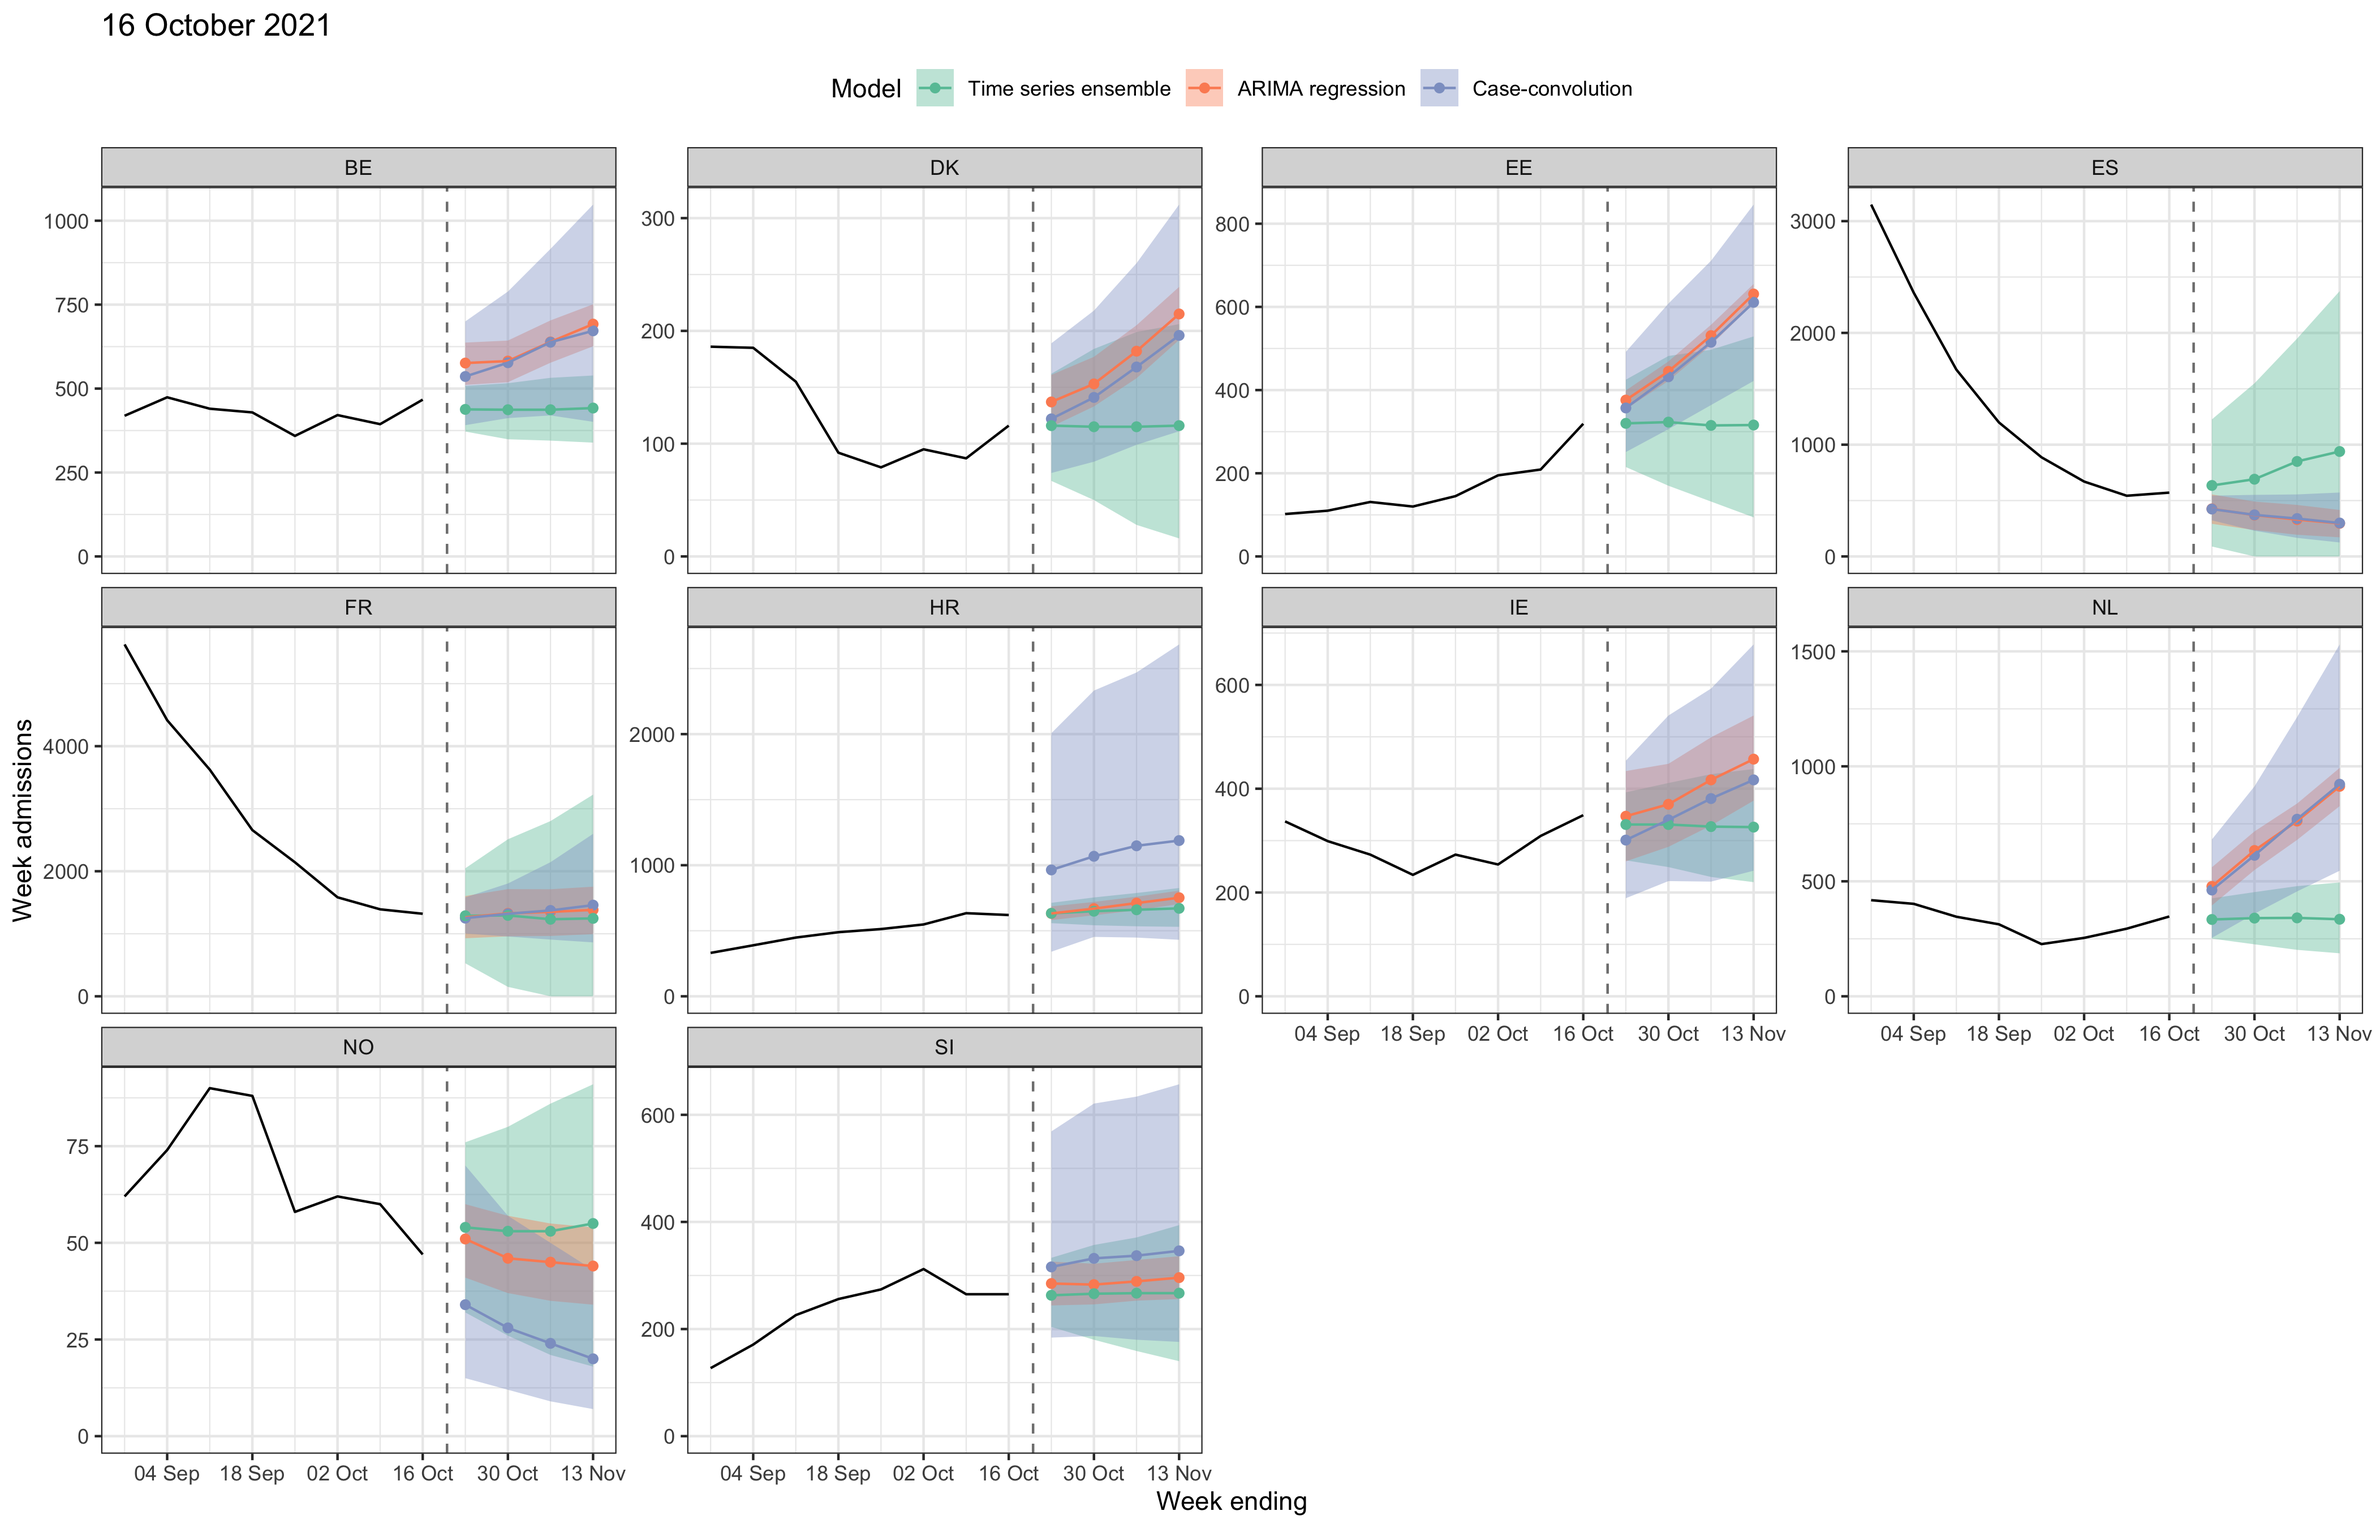
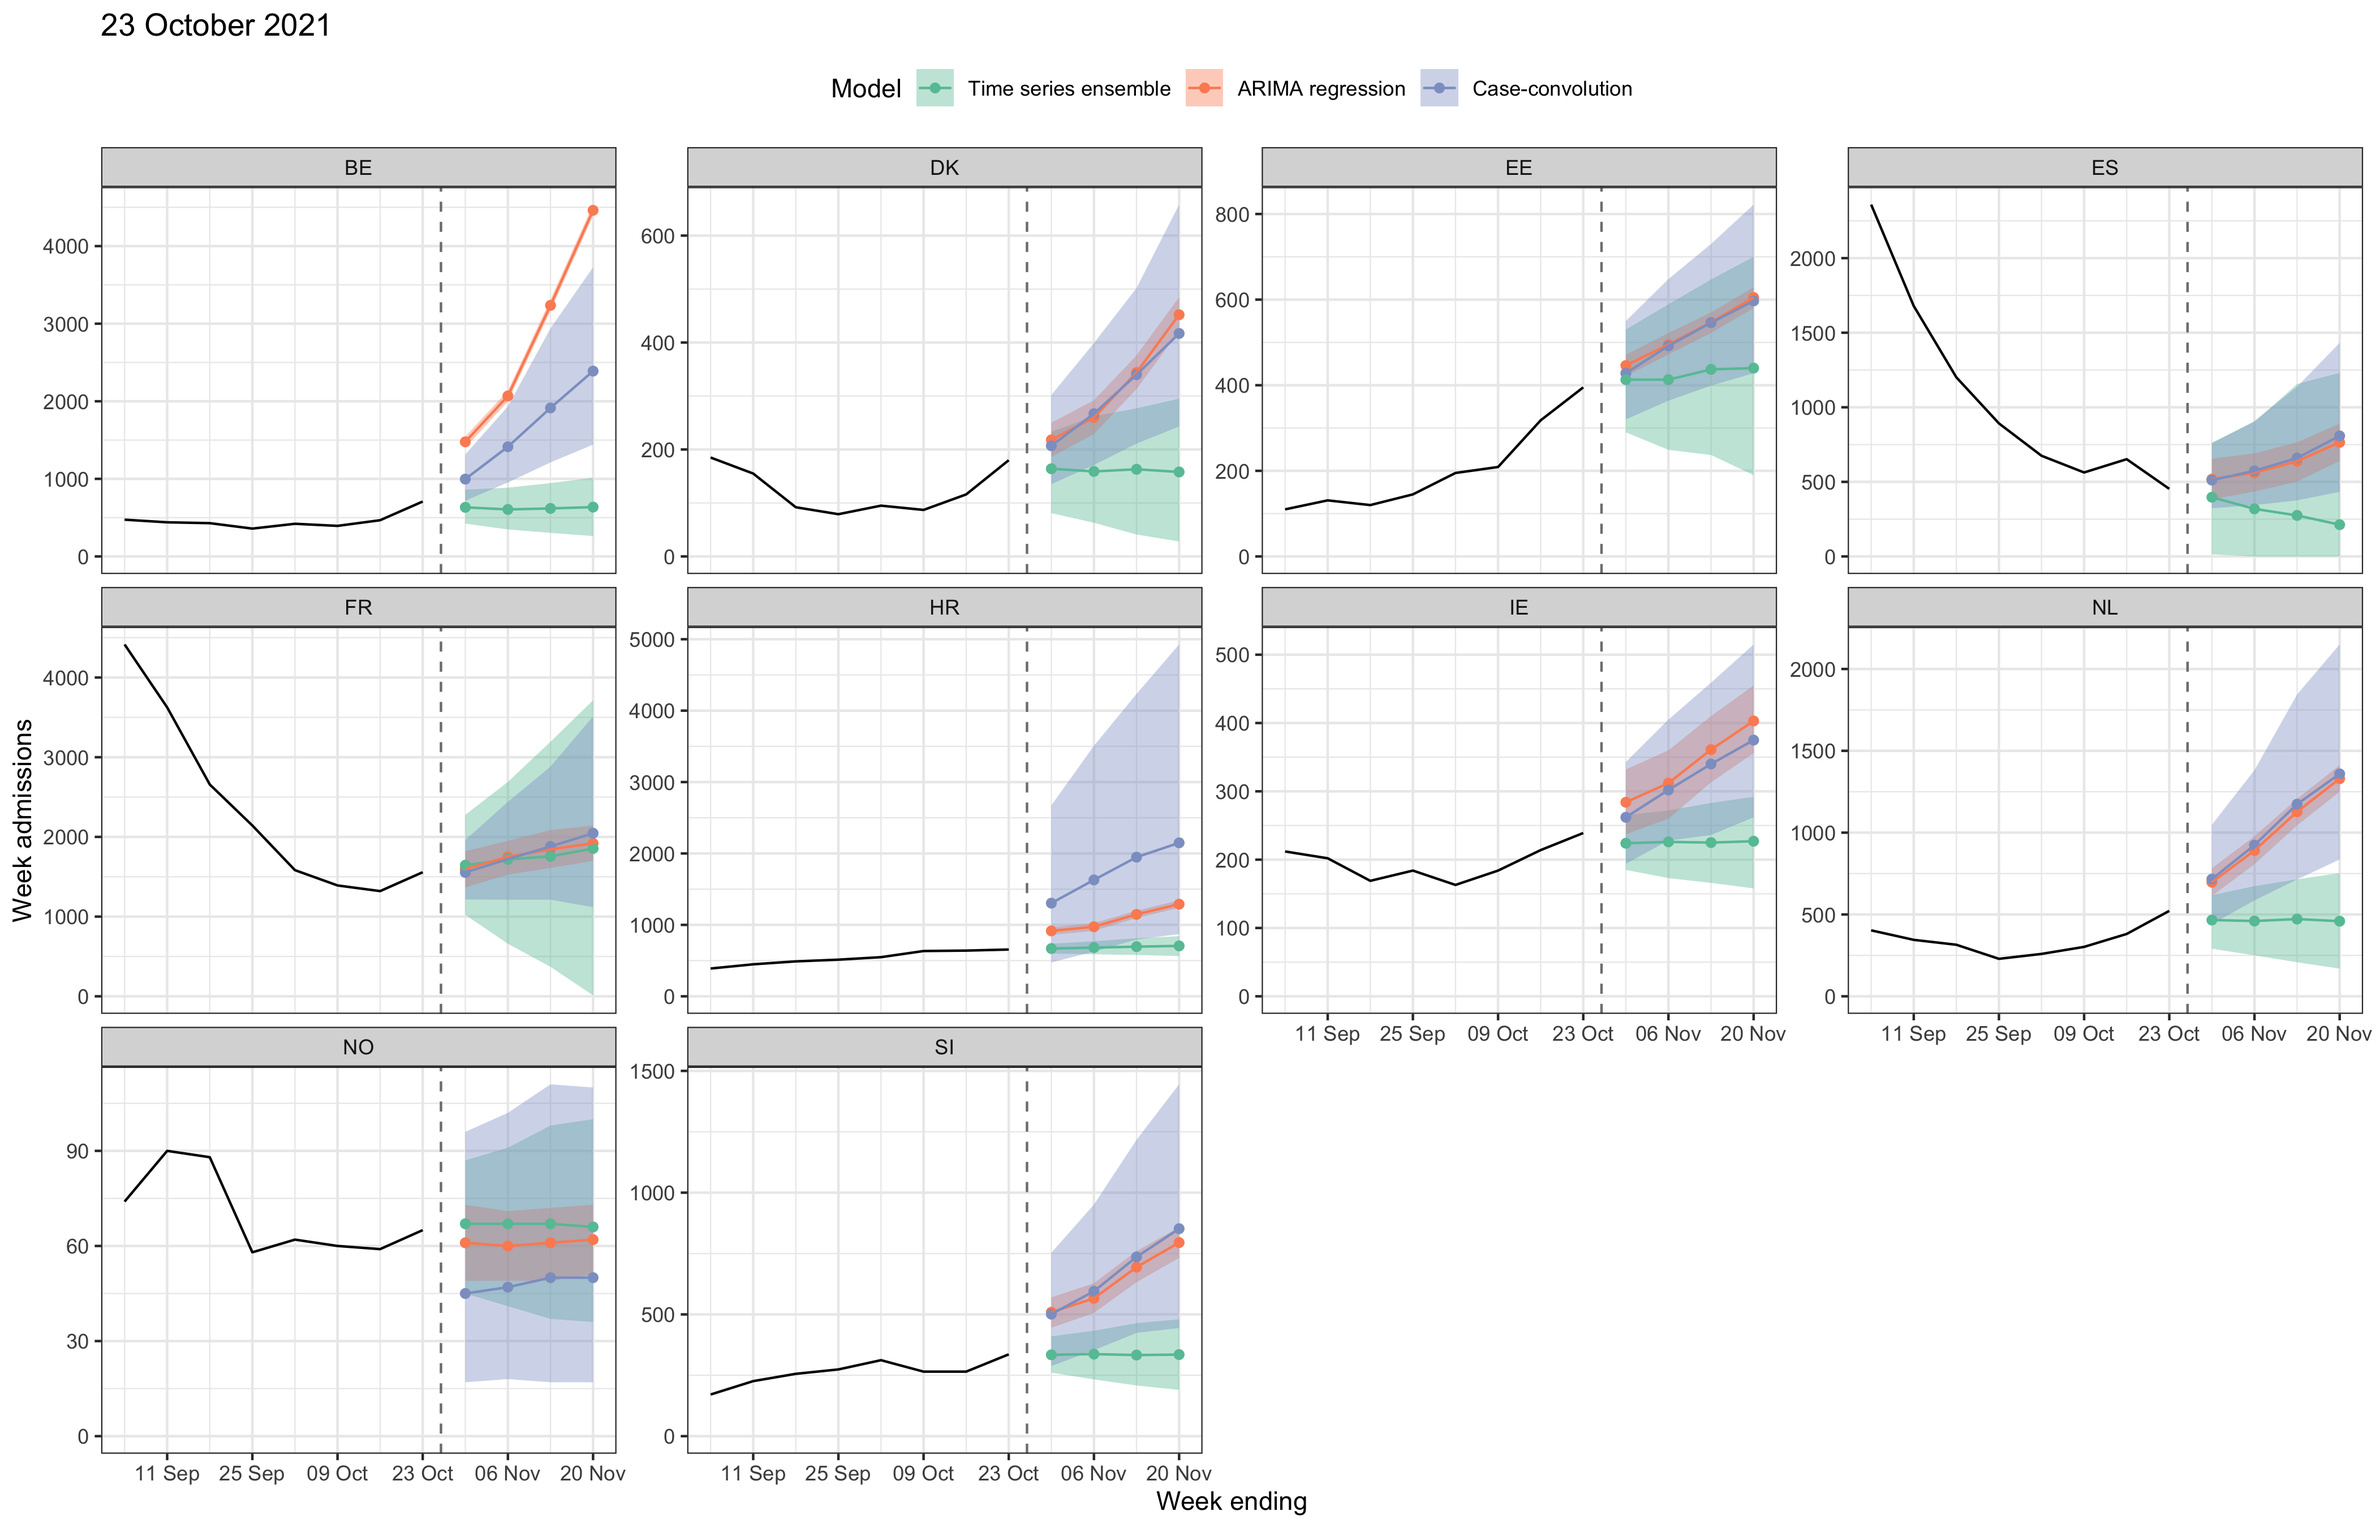
Update README

diff --git a/README.md b/README.md
@@ -2,7 +2,7 @@
 
 ## Current forecasts
 
-The most recent forecasts (from 16 October 2021) cover the following
+The most recent forecasts (from 23 October 2021) cover the following
 locations: Belgium (BE), Denmark (DK), Estonia (EE), Spain (ES), France
 (FR), Croatia (HR), Ireland (IE), Netherlands (NL), Norway (NO),
 Slovenia (SI).
